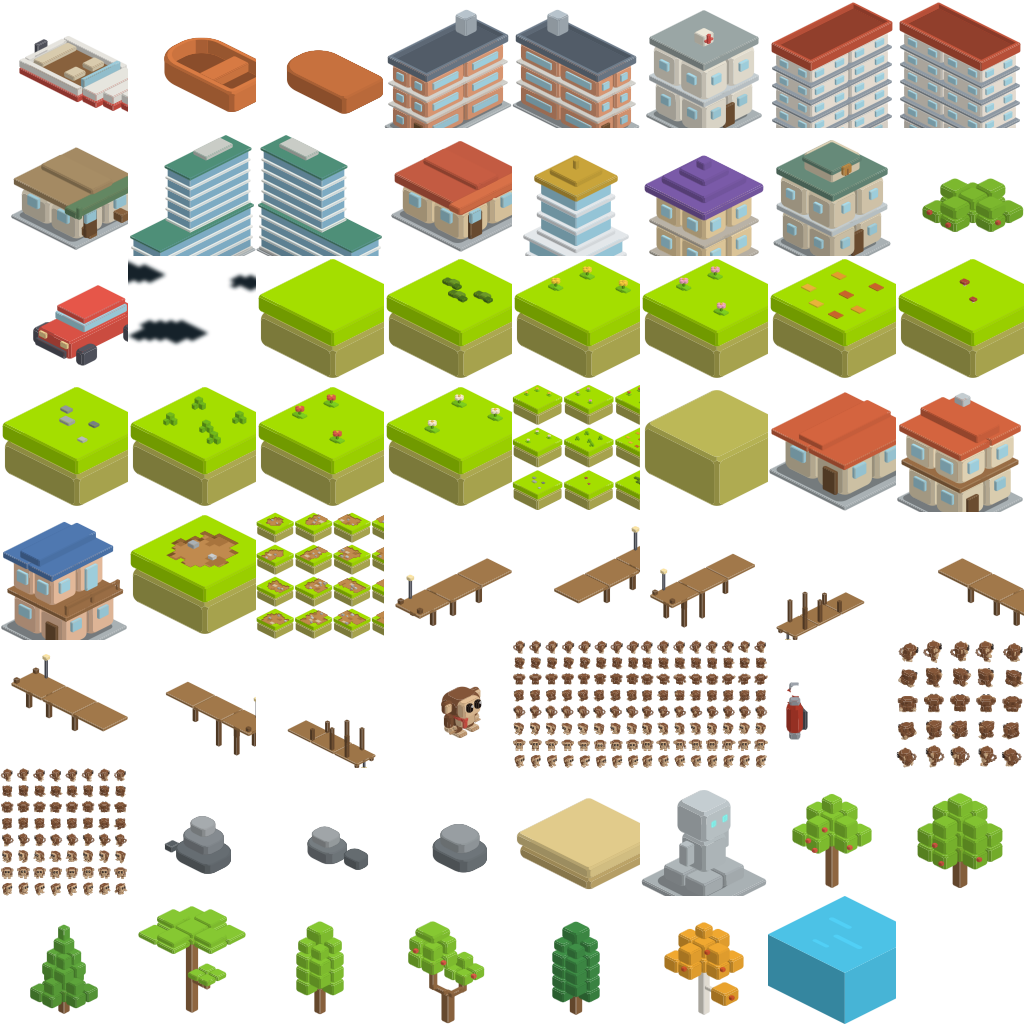
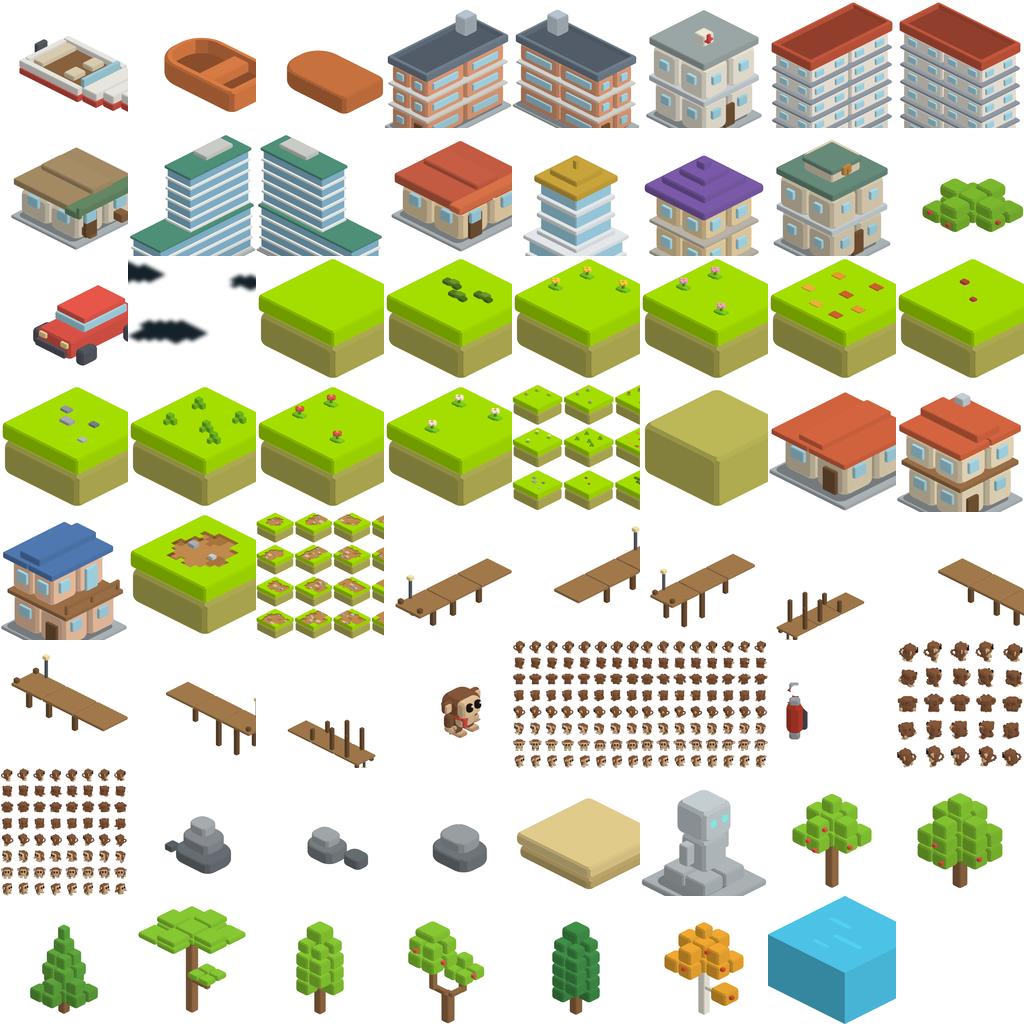
feat(rust): improve atlas pipeline to trim padding and preserve aspect ratio
Rasterize at 512px (qlmanage) and trim transparent padding in pack_atlas
before scaling to cell size, preserving each SVG's aspect ratio. Fix source
path generation (only first underscore becomes directory separator). Update
the shared manifest to 63 real entries with correct source paths. 103 tests
pass, clippy clean.

diff --git a/iso-core/src/bin/pack_atlas.rs b/iso-core/src/bin/pack_atlas.rs
@@ -94,25 +94,66 @@ fn main() {
         let x = col * cell_size;
         let y = row * cell_size;
 
-        // Resize image to cell_size if needed.
-        let resized = if img.width() != cell_size || img.height() != cell_size {
-            image::imageops::resize(img, cell_size, cell_size, image::imageops::FilterType::Lanczos3)
+        // Trim transparent padding: find the bounding box of non-transparent pixels.
+        let mut min_x = img.width();
+        let mut min_y = img.height();
+        let mut max_x = 0u32;
+        let mut max_y = 0u32;
+        for py in 0..img.height() {
+            for px in 0..img.width() {
+                if img.get_pixel(px, py)[3] > 10 {
+                    min_x = min_x.min(px);
+                    min_y = min_y.min(py);
+                    max_x = max_x.max(px);
+                    max_y = max_y.max(py);
+                }
+            }
+        }
+
+        let trimmed = if min_x < max_x && min_y < max_y {
+            let w = max_x - min_x + 1;
+            let h = max_y - min_y + 1;
+            image::imageops::crop_imm(img, min_x, min_y, w, h).to_image()
         } else {
             img.clone()
         };
 
-        // Copy into atlas.
-        for py in 0..cell_size {
-            for px in 0..cell_size {
+        // Scale to fit the cell while preserving aspect ratio.
+        let scale = (cell_size as f64 / trimmed.width() as f64)
+            .min(cell_size as f64 / trimmed.height() as f64);
+        let new_w = (trimmed.width() as f64 * scale).round().max(1.0) as u32;
+        let new_h = (trimmed.height() as f64 * scale).round().max(1.0) as u32;
+        let resized = image::imageops::resize(
+            &trimmed,
+            new_w,
+            new_h,
+            image::imageops::FilterType::Lanczos3,
+        );
+
+        // Center in the cell with transparent padding.
+        let off_x = (cell_size - new_w) / 2;
+        let off_y = (cell_size - new_h) / 2;
+        for py in 0..new_h {
+            for px in 0..new_w {
                 let p = resized.get_pixel(px, py);
-                atlas.put_pixel(x + px, y + py, *p);
+                atlas.put_pixel(x + off_x + px, y + off_y + py, *p);
             }
         }
 
         manifest_entries.push(AssetEntry {
             id: name.clone(),
             kind: "entity".to_owned(),
-            source: format!("/assets/{}.svg", name.replace('_', "/")),
+            source: {
+                // Only the first underscore separates directory from file name.
+                let mut parts = name.splitn(2, '_');
+                let dir = parts.next().unwrap_or(name.as_str());
+                let file = parts.next().unwrap_or("");
+                if file.is_empty() {
+                    format!("/assets/{}.svg", dir)
+                } else {
+                    format!("/assets/{}/{}.svg", dir, file)
+                }
+            },
             data_tiles: "1x1x1".to_owned(),
             frame: SpriteFrame {
                 x,
